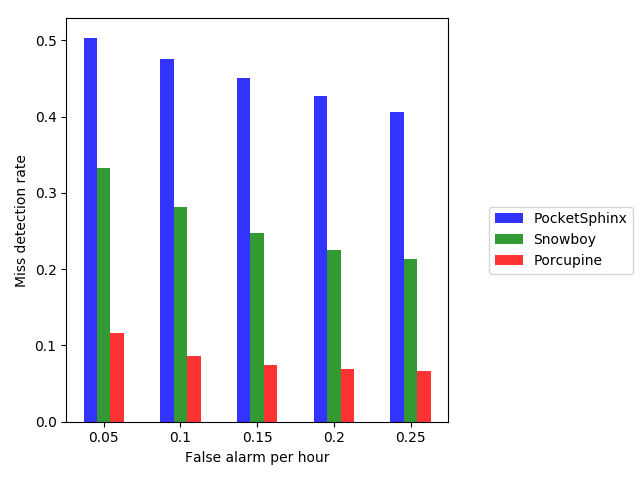
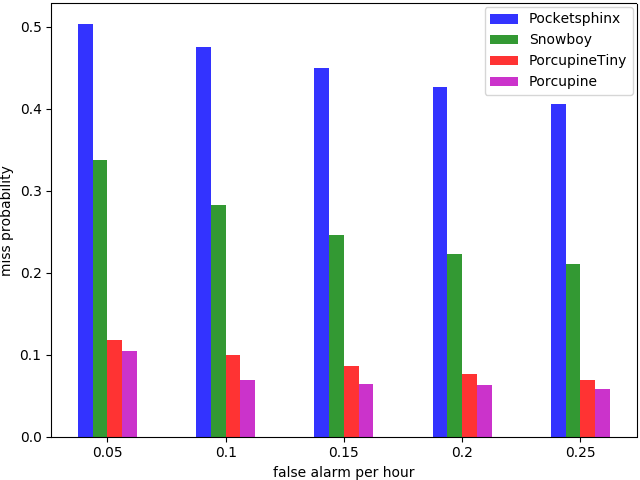
new results

diff --git a/engine.py b/engine.py
@@ -31,7 +31,6 @@ class Engines(Enum):
 
     POCKET_SPHINX = 'Pocketsphinx'
     PORCUPINE = 'Porcupine'
-    PORCUPINE_SMALL = "PorcupineSmall"
     PORCUPINE_TINY = "PorcupineTiny"
     SNOWBOY = 'Snowboy'
 
@@ -69,8 +68,6 @@ class Engine(object):
 
         if engine_type is Engines.PORCUPINE:
             return np.linspace(0.0, 1.0, 10)
-        if engine_type is Engines.PORCUPINE_SMALL:
-            return np.linspace(0.0, 1.0, 10)
         if engine_type is Engines.PORCUPINE_TINY:
             return np.linspace(0.0, 1.0, 10)
         if engine_type is Engines.POCKET_SPHINX:
@@ -95,8 +92,6 @@ class Engine(object):
             return PocketSphinxEngine(keyword, sensitivity)
         if engine_type is Engines.PORCUPINE:
             return PorcupineEngine(keyword, sensitivity)
-        if engine_type is Engines.PORCUPINE_SMALL:
-            return PorcupineSmallEngine(keyword, sensitivity)
         if engine_type is Engines.PORCUPINE_TINY:
             return PorcupineTinyEngine(keyword, sensitivity)
         if engine_type is Engines.SNOWBOY:
@@ -174,6 +169,9 @@ class PorcupineEngineBase(Engine):
     def release(self):
         self._porcupine.delete()
 
+    def __str__(self):
+        raise NotImplementedError()
+
 
 class PorcupineEngine(PorcupineEngineBase):
     """Original variant of Porcupine."""
@@ -198,31 +196,6 @@ class PorcupineEngine(PorcupineEngineBase):
 
     def __str__(self):
         return 'Porcupine'
-
-
-class PorcupineSmallEngine(PorcupineEngineBase):
-    """Small variant of Porcupine engine."""
-
-    def __init__(self, keyword, sensitivity):
-        """
-        Constructor.
-
-        :param keyword: keyword to be detected.
-        :param sensitivity: detection sensitivity.
-        """
-
-        model_file_path = os.path.join(
-            os.path.dirname(__file__),
-            'engines/porcupine/lib/common/porcupine_small_params.pv')
-
-        keyword_file_path = os.path.join(
-            os.path.dirname(__file__),
-            'engines/porcupine/resources/keyword_files/%s_linux_small.ppn' % keyword.lower())
-
-        super().__init__(sensitivity, model_file_path, keyword_file_path)
-
-    def __str__(self):
-        return 'Porcupine Small'
 
 
 class PorcupineTinyEngine(PorcupineEngineBase):

diff --git a/README.md b/README.md
@@ -3,7 +3,7 @@
 [![License](https://img.shields.io/badge/License-Apache%202.0-blue.svg)](https://github.com/Picovoice/wakeword-benchmark/blob/master/LICENSE)
 
 The primary purpose of this benchmark framework is to provide a scientific comparison between different wake-word
-detection engines in terms of accuracy and runtime metrics (real time factor and memory usage). Currently, the framework
+detection engines in terms of accuracy and runtime metrics. Currently, the framework
 is configured for **Alexa** as the test wake-word. But it can be configured for any other wake-words as described [here](#how-can-i-reproduce-the-results).
 
 # Why did we make this?
@@ -20,7 +20,7 @@ data-driven decisions. The framework
 - runs wake-word engines at different detection thresholds (aka sensitivities) which results in different
 miss detection and false alarm rates. Finally, it creates an
 [ROC](https://en.wikipedia.org/wiki/Receiver_operating_characteristic) curve for each engine.
-- measures [real time factor](http://enacademic.com/dic.nsf/enwiki/3796485) and memory usage for each engine on Raspberry Pi 3.
+- measures [real time factor](http://enacademic.com/dic.nsf/enwiki/3796485), CPU usage, and memory usage for each engine on Raspberry Pi 3.
 # Data
 
 [Common Voice](https://voice.mozilla.org/en) is used as background dataset, i.e., dataset without utterances of the
@@ -48,8 +48,8 @@ per hour is measured as a number of false positives in an hour. Miss detection i
  utterances an engine rejects incorrectly. Using these definitions we compare the engines for a given false alarm, and therefore the
 engine with a smaller miss detection rate has a better performance.
 
-Two runtime metrics are measured, real time factor and memory. Real time factor is the ratio of duration of input audio data
-to processing time. It can be thought of as inverse CPU usage. Engine with higher real time factor is more computationally
+Two runtime metrics are measured, real time factor and memory usage. Real time factor is computed by dividing the length of input audio to
+to the processing time. It can be thought of as inverse CPU usage. The engine with a higher real time factor is more computationally
 efficient (faster).
 
 # Usage
@@ -103,8 +103,7 @@ This runs the benchmark for a clean environment and creates the ROC curves for d
 `--output_directory <output directory to save the results>` is passed to command line the framework 
 saves the results in CSV format. This is going to take a while (it takes 48 hours on a quad-core Intel machine).
 
-To run the benchmark in the noisy environment pass the `--add_noise` and it randomly picks a noise
-from DEMAND dataset and adds it to the audio samples. We are adding noise to the audio samples with the SNR of 10dB which
+To run the benchmark in the noisy environment pass the `--add_noise`. Noise is mixed into the audio samples with the SNR of 10dB which
 simulates environments with moderate noise.
 
 ### Running the runtime benchmark
@@ -131,15 +130,15 @@ Also below is the result in presence of noise
 
 ## Runtime
 
-Below are the runtime measurements (on Raspberry Pi 3)
+Below are the runtime measurements (on Raspberry Pi 3). Two metrics are measured (1) real time factor and (2) memory usage.
+Fir ease of interpretation we also added average CPU usage by simply inversing the real time factor.
 
-Engine | Real Time Factor | Memory
---- | --- | ---
-PocketSphinx | 3.15 | 15.58 MB
-Snowboy | 5.28 | 2.43 MB
-Porcupine (Standard) | 13.53 | 1.38 MB
-Porcupine (Small) | 20.32 | 0.41 MB
-Porcupine (Tiny) | 29.28 | 0.24  MB
+Engine | Real Time Factor | Average CPU Usage | Memory Usage
+:---: | :---: | :---: | :---:
+PocketSphinx | 3.15 | 31.75% | 15.58 MB
+Snowboy | 5.28 | 18.94% | 2.43 MB
+Porcupine | 13.53 | 7.39% | 1.38 MB
+Porcupine Tiny | 29.28 | 3.42% | 0.24  MB
 
 # FAQ
 
@@ -149,8 +148,7 @@ The results presented above are completely reproducible given that exactly same 
 
 Datasets are taken from
 * [Common Voice Dataset](https://voice.mozilla.org/en/data) is an active project and evolving over time. But this should
-not significantly affect the results. In case you are interested to use the exact version as used to produce above results, 
-we keep a copy of dataset used internally. (please send an email to <help@picovoice.ai>).
+not significantly affect the results.
 * [Alexa Dataset](https://www.kaggle.com/aanhari/alexa-dataset).
 * [Demand Dataset](https://www.kaggle.com/aanhari/demand-dataset).
 

diff --git a/runtime/README.md b/runtime/README.md
@@ -4,22 +4,22 @@ Below the methodology for measuring runtime (i.e. real-time factor and memory) m
 explained. The goal is to measure only the CPU and memory consumed by the engine and not remaining tasks such as 
 audio reading (from file or microphone), moving data between C and different language bindings, etc when possible.
 
-For Porcupine and Snowboy lean utility programs are created [here](/runtime/porcupine_runtime_test.c) and
+For Porcupine and Snowboy utility programs are created [here](/runtime/porcupine_runtime_test.c) and
 [here](/runtime/snowboy_runtime_test.cpp). These programs read a WAV file and pass it through the corresponding wake-word
 engine frame-by-frame as is the case in real time applications. They only measure the time spent in the corresponding 
 processing/detection method of the engines.
 
 For PocketSphinx the task of creating such utility program is more involved and hence we opt for easier method of
-measuring the processing time of its commandline interface. This is essentially an upperbound on actual processing time
+measuring the processing time of its commandline interface. This is essentially an upper bound on actual processing time
 of PocketSphinx.
 
 All the measurements are done on **Raspberry Pi 3**. The wake-word for testing is 'Alexa' same as the accuracy benchmark.
 
 ## Real Time Factor
 
-The [real time factor](http://enacademic.com/dic.nsf/enwiki/3796485) is ratio of processing time to length of audio input.
+The [real time factor](http://enacademic.com/dic.nsf/enwiki/3796485) is ratio of length of audio input to processing time.
 It can be thought of as inverse CPU usage. It is a common metric for measuring the performance of speech recognition system. For
-example, if it takes an engine 2 seconds to process a 20 second audio file it has a real time factor of 10. The higher
+example, if it takes an engine 2 seconds to process a 24 second audio file it has a real time factor of 12. The higher
 the real time factor the more computationally-efficient (faster) the engine is.
 
 ### Snowboy
@@ -52,16 +52,11 @@ engines/porcupine/lib/raspberry-pi/cortex-a53/libpv_porcupine.a -lm
 ```
 
 it creates a binary file called `runtime/porcupine_runtime_test`. Next we run the file on a sample audio file to measure
-the realtime factor for each variant (standard, small, and tiny) by
+the realtime factor for each variant (standard and tiny) by
 
 ```bash
 ./runtime/porcupine_runtime_test engines/porcupine/resources/audio_samples/multiple_keywords.wav \
 engines/porcupine/lib/common/porcupine_params.pv engines/porcupine/resources/keyword_files/alexa_raspberrypi.ppn
-```
-
-```bash
-./runtime/porcupine_runtime_test engines/porcupine/resources/audio_samples/multiple_keywords.wav \
-engines/porcupine/lib/common/porcupine_small_params.pv engines/porcupine/resources/keyword_files/alexa_raspberrypi_small.ppn
 ```
 
 ```bash
@@ -71,7 +66,7 @@ engines/porcupine/lib/common/porcupine_tiny_params.pv engines/porcupine/resource
 
 ### PocketSphinx
 
-For PocketSphinx for opt for simpler method of measuring the processing time from commandline using the following command
+For PocketSphinx we opt for simpler method of measuring the processing time from commandline using the following command
 
 ```bash
 time  pocketsphinx_continuous -logfn /dev/null -keyphrase alexa -infile engines/porcupine/resources/audio_samples/multiple_keywords.wav
